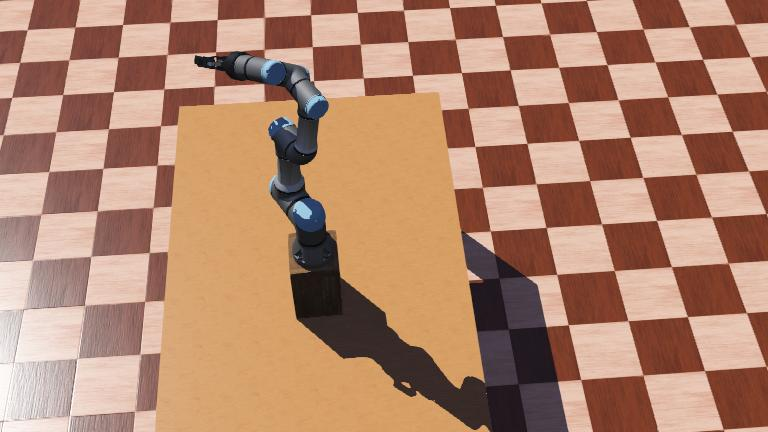
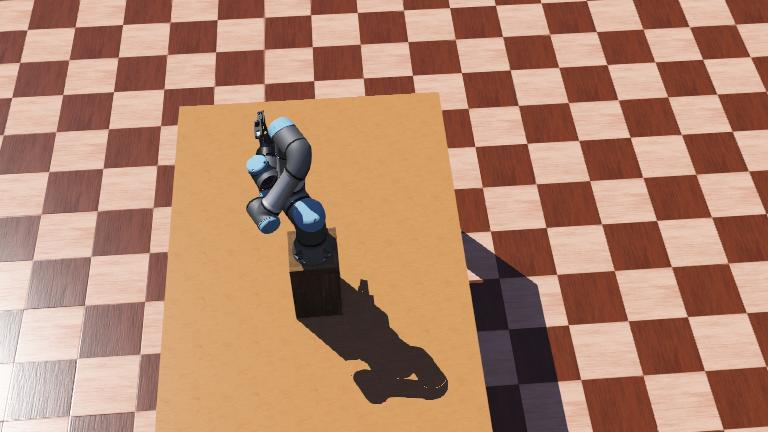
not yet yep :-(

diff --git a/controllers/ur3_rtde_controller_camera_3d/ur3_rtde_controller_camera_3d.py b/controllers/ur3_rtde_controller_camera_3d/ur3_rtde_controller_camera_3d.py
@@ -9,7 +9,7 @@
 # 
 # OJU 19.05.2025
 #----------------------------
-from controller import Robot
+from controller import Supervisor # was Robot
 import socket
 import threading
 import json
@@ -23,12 +23,13 @@ SERVER_PORT = 30010
 # UR3e Home-Position 
 #HOME_POSITION =[ 1.77, 1.00, 1.76, -1.56, 2.33, 1.64] #irgendeine
 
-# HOME_POSITION_GRAD = [ 0.00, 0.00, 0.00, 0.00, 0.00, 0.00]
+
 # HOME_POSITION = [3.894989504502283e-06, -1.1196710709038271e-05, 3.75, 0.00021631375190624204, -7.870102380896915e-05, -4.415480779567577e-06]
 # Neutrale Pose  0.0, 0.0, 0.0, 0.0, 0.0, 0.0 # 
 
 HOME_POSITION = [ 0.00, 0.00, 0.00, 0.00, 0.00, 0.00]  # in rad
-HOME_POSITION_GRAD = [ 0.00, -87.73, -7.63, -0.28, 0.87, 0.22]  #Foto aufrechte Position
+#HOME_POSITION_GRAD = [ 0.00, -87.73, -7.63, -0.28, 0.87, 0.22]  #Foto aufrechte Position
+HOME_POSITION_GRAD = [ 0.00, 0.00, 0.00, 0.00, 0.00, 0.00]
 i = 0
 for wert in HOME_POSITION_GRAD: 
     HOME_POSITION[i] = wert *m.pi/190 # m.radians(wert)
@@ -41,7 +42,9 @@ GRIPPER_CLOSE_POS = 0.0  # Geschlossen
 GRIPPER_SPEED = 1.0      # Rad/s
 
 # Initialisiere Webots-Roboter
-robot = Robot() # Supervisor() ??
+robot = Supervisor() # was Robot() 
+tool_slot = robot.getFromDef("TOOL_SLOT")  
+
 timestep = int(robot.getBasicTimeStep())
 
 ##### ADD CAMERA ###################
@@ -76,7 +79,7 @@ ur3e = rtb.DHRobot([
 ])
 
 # Neutrale Gelenkwinkel (θ1–θ6 = 0)
-q = np.array([0, 0, 0, 0, 0, 0])
+# q = np.array([0, 0, 0, 0, 0, 0])
 
 #### TCP ermitteln ##############################################################
 
@@ -246,9 +249,13 @@ while robot.step(timestep) != -1:
             for name in joint_names
         ]
         #formatierte Ausgabe
-        print(f"aktuelle Gelenkwinkel: {current_joint_angles[0]:.2f}, {current_joint_angles[1]:.2f}, {current_joint_angles[2]:.2f}, {current_joint_angles[3]:.2f}, {current_joint_angles[4]:.2f}, {current_joint_angles[5]:.2f}",     end=" ")
+        # print(f"aktuelle Gelenkwinkel: {current_joint_angles[0]:.2f}, {current_joint_angles[1]:.2f}, {current_joint_angles[2]:.2f}, {current_joint_angles[3]:.2f}, {current_joint_angles[4]:.2f}, {current_joint_angles[5]:.2f}",     end=" ")
         #print("aktuelle Gelenkwinkel: ", current_joint_angles, end=" ")                               
-                                   
+          
+        if tool_slot:
+            print("Tool-Slot-Position:", tool_slot.getPosition())
+        else:
+            print("DEF 'TOOL_SLOT' nicht gefunden. Proto-Datei prüfen!")                 
         #####  TCP ##################           
         # Vorwärtskinematik berechnen
         T = ur3e.fkine(current_joint_angles)  # fkine-Methode ergibt ein SE3-Objekt
